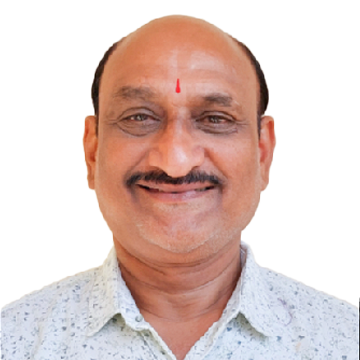
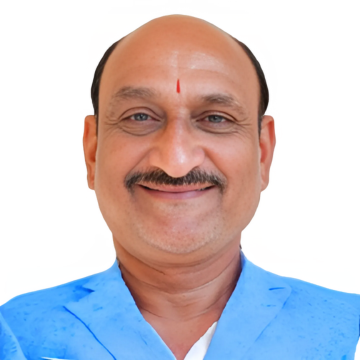
Commit

diff --git a/app/page.tsx b/app/page.tsx
@@ -94,7 +94,7 @@ export default function Home() {
               <div className="relative aspect-square">
                 <div className="absolute -inset-4 bg-gradient-1 opacity-10 blur-3xl rounded-full"></div>
                 <Image
-                  src="/ph1.png?height=600&width=600"
+                  src="/gd1.jpg?height=600&width=600"
                   alt="WeCreate Team"
                   fill
                   className="object-cover rounded-lg relative z-10"
@@ -110,19 +110,19 @@ export default function Home() {
         <div className="container mx-auto px-4">
           <ScrollStagger className="grid grid-cols-2 md:grid-cols-4 gap-6 text-center" staggerDelay={200}>
             <div className="p-6">
-              <span className="text-4xl md:text-5xl font-bold text-cyan-400 block mb-2">150+</span>
+              <span className="text-4xl md:text-5xl font-bold text-cyan-400 block mb-2">75+</span>
               <p className="text-zinc-300">Projects Completed</p>
             </div>
             <div className="p-6">
-              <span className="text-4xl md:text-5xl font-bold text-pink-400 block mb-2">50+</span>
+              <span className="text-4xl md:text-5xl font-bold text-pink-400 block mb-2">30+</span>
               <p className="text-zinc-300">Happy Clients</p>
             </div>
             <div className="p-6">
-              <span className="text-4xl md:text-5xl font-bold text-amber-400 block mb-2">8</span>
+              <span className="text-4xl md:text-5xl font-bold text-amber-400 block mb-2">5+</span>
               <p className="text-zinc-300">Years Experience</p>
             </div>
             <div className="p-6">
-              <span className="text-4xl md:text-5xl font-bold text-cyan-400 block mb-2">15</span>
+              <span className="text-4xl md:text-5xl font-bold text-cyan-400 block mb-2">12</span>
               <p className="text-zinc-300">Team Members</p>
             </div>
           </ScrollStagger>
